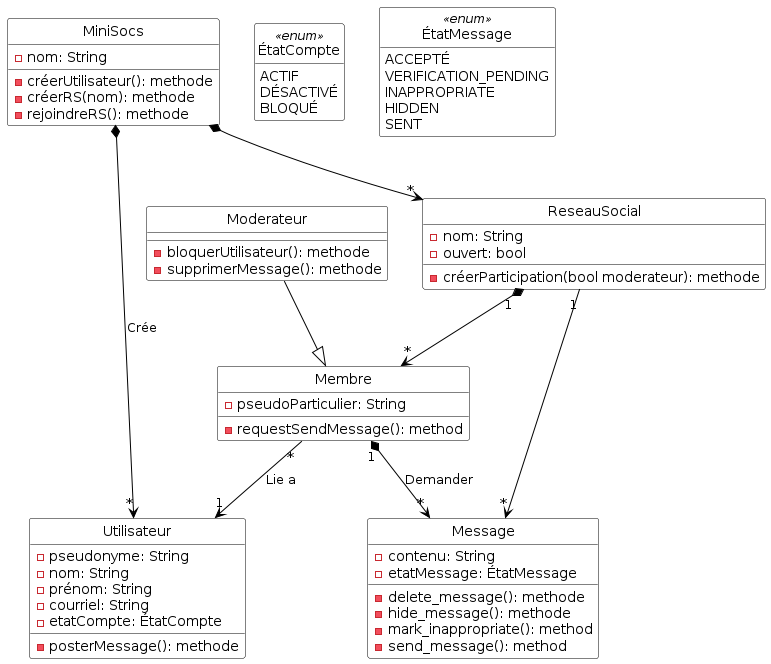
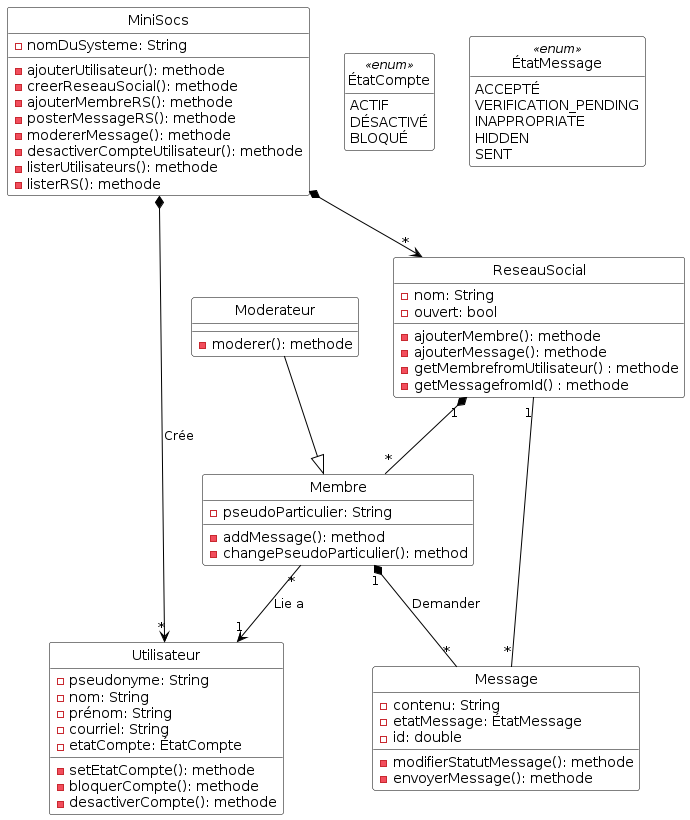
Mise en coherence diagramme de classe

diff --git a/src/main/java/eu/telecomsudparis/csc4102/minisocs/ReseauSocial.java b/src/main/java/eu/telecomsudparis/csc4102/minisocs/ReseauSocial.java
@@ -91,6 +91,7 @@ public class ReseauSocial {
     public void ajouterMessage(String contenu, Membre m) throws OperationImpossible {
     	Message nouveauMessage = new Message(contenu, m, EtatMessage.VERIFICATION_PENDING, this);
     	nouveauMessage.envoyerMessage();
+    	m.addMessage(nouveauMessage, contenu);
         messages.add(nouveauMessage);
     	assert invariant();
     }

diff --git a/src/main/java/eu/telecomsudparis/csc4102/minisocs/Membre.java b/src/main/java/eu/telecomsudparis/csc4102/minisocs/Membre.java
@@ -81,8 +81,8 @@ public class Membre {
         return true;
 	}
 	
-    public void requestSendMessage(final String messageContent) throws OperationImpossible {
-    	this.rs.ajouterMessage(messageContent, this);
+    public void addMessage(Message message, final String contenu) {
+    	this.messages.put(contenu, message);
 	    assert invariant();
     }
 	
